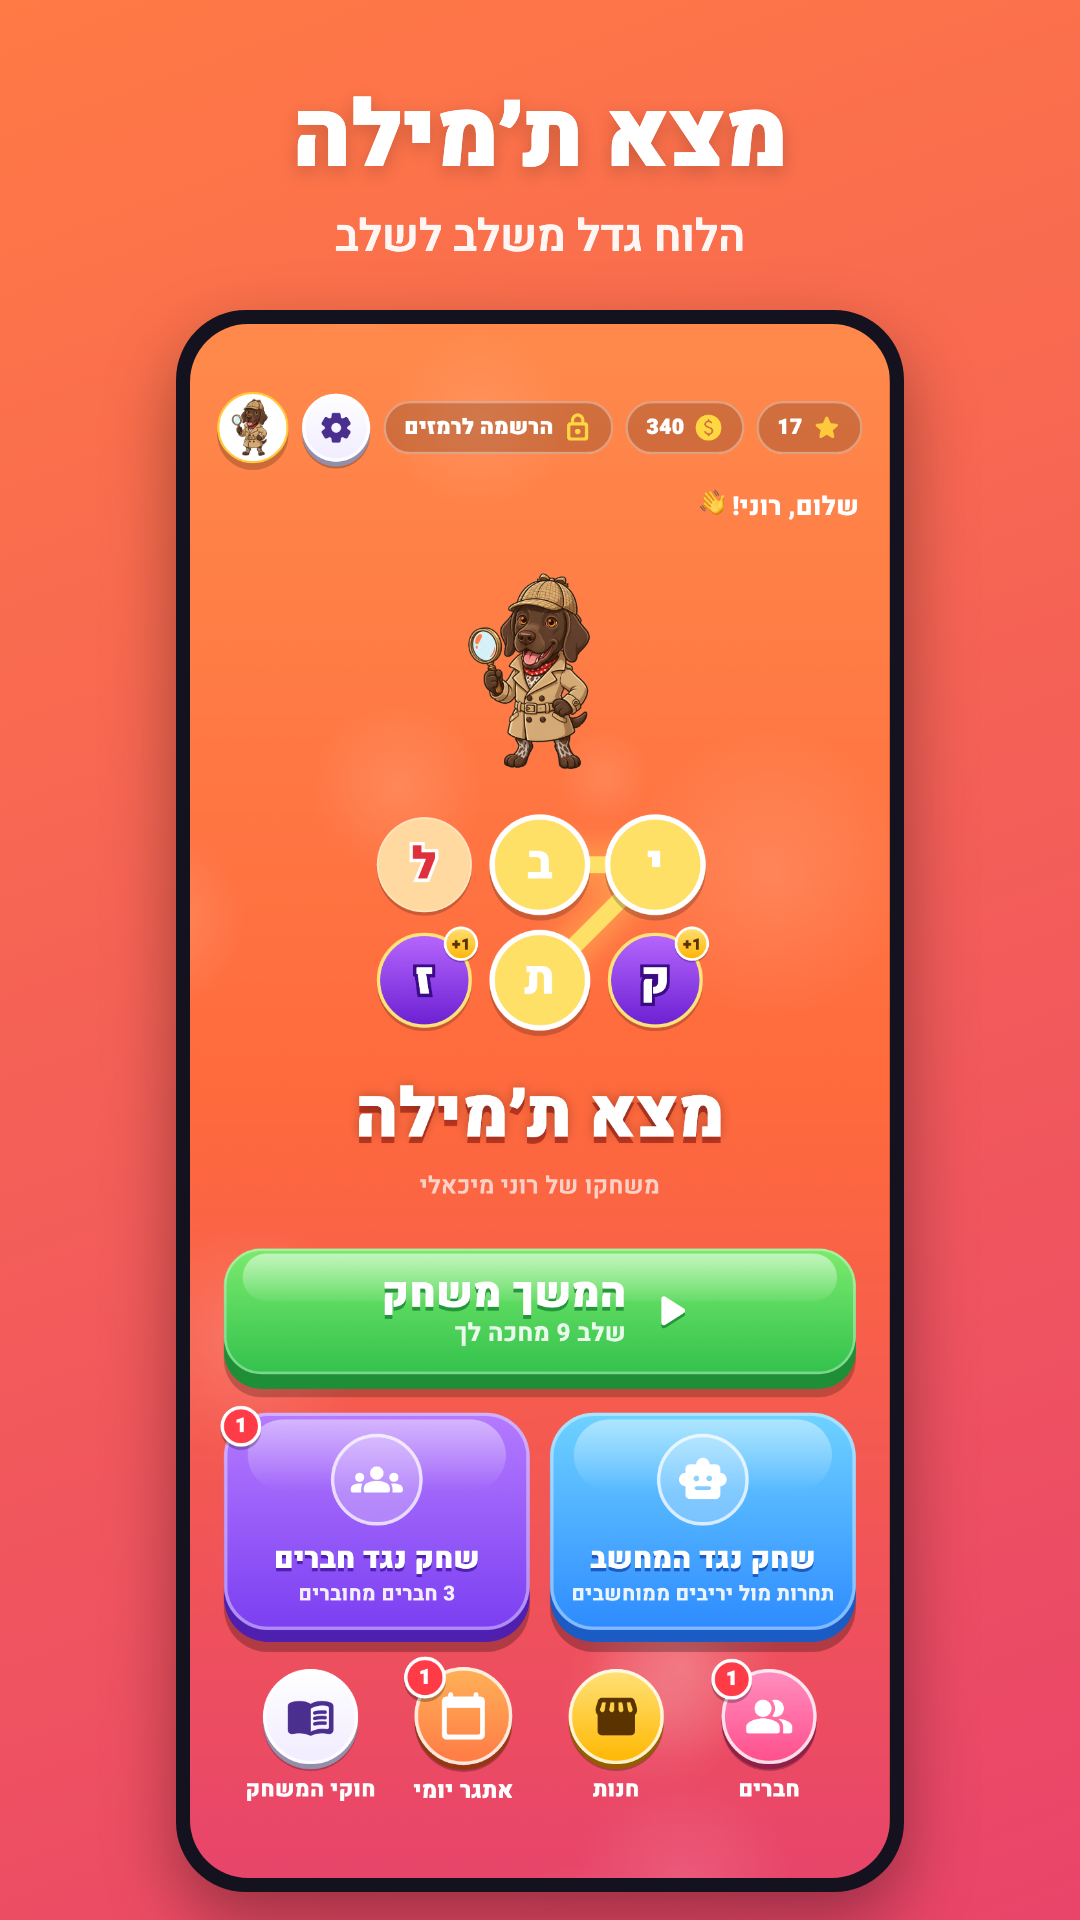
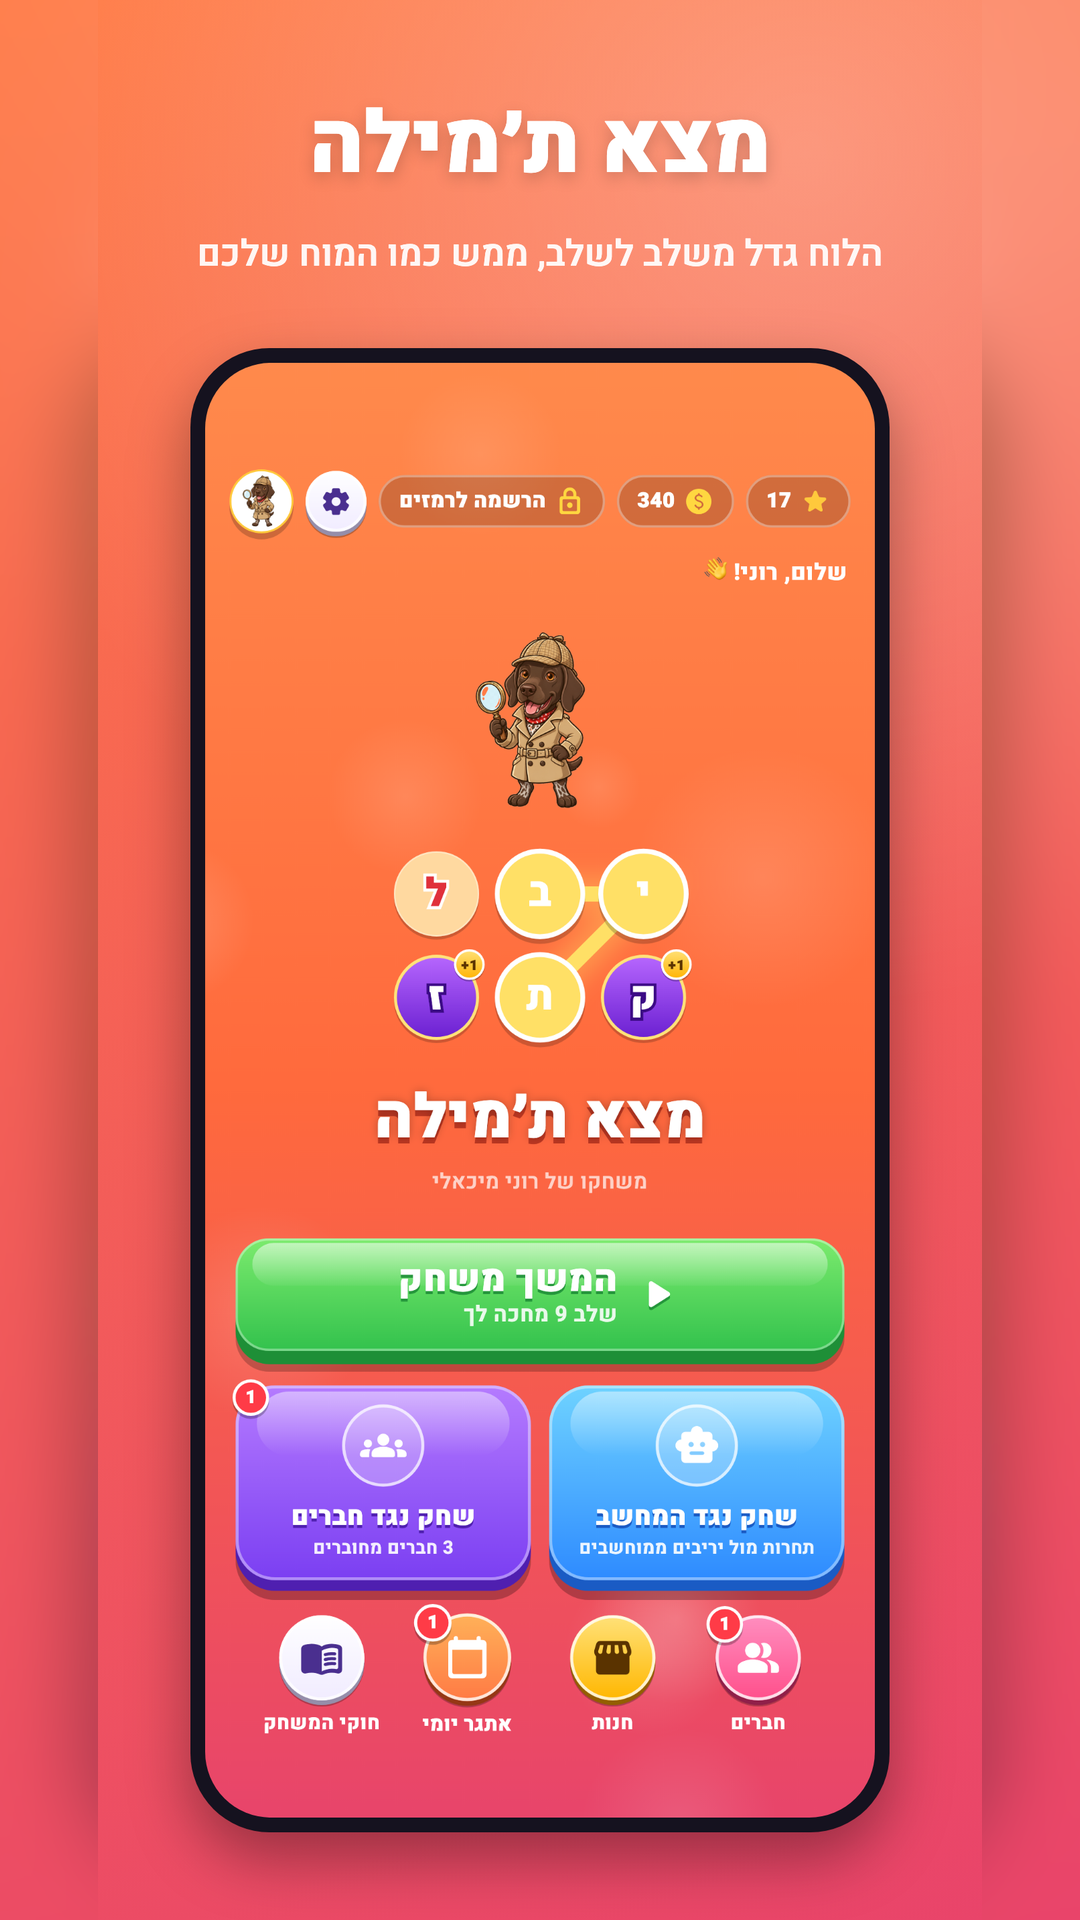
Android ל-Google Play: התחברות Google, בלי מזהה פרסום, צילומי מסך ותמונה ראשית מתוקנים
- התחברות Google באנדרואיד (טביעות SHA של מפתח ההעלאה ב-Firebase, google-services.json מעודכן)
- הודעה ברורה כשאין חשבון Google במכשיר
- טקסט ההרשמה מציג רק שיטות שקיימות בפלטפורמה (בלי Apple באנדרואיד)
- הסרת הרשאות AD_ID ו-Privacy Sandbox (אין פרסומות בגרסה הזו)
- צילומי מסך 1080x1920 בלי חפיפת כותרת, תמונה ראשית ו-manifest בלי Boggle

diff --git a/lib/features/auth/auth_screen.dart b/lib/features/auth/auth_screen.dart
@@ -8,6 +8,7 @@ import 'package:go_router/go_router.dart';
 
 import '../../core/analytics/analytics_service.dart';
 import 'account_flows.dart';
+import 'sign_in_methods.dart';
 import '../../core/config/app_config.dart';
 import '../../core/security/input_rules.dart';
 import '../../core/theme/app_colors.dart';
@@ -43,12 +44,11 @@ class _AuthScreenState extends ConsumerState<AuthScreen> {
   bool _showEmailForm = false;
   String? _busyAction;
 
-  // באתר Apple דורש הגדרת Services ID ב-Firebase - מוסתר עד אז (ראו AppConfig).
-  bool get _appleAvailable => kIsWeb ? AppConfig.appleLoginWeb : (Platform.isIOS || Platform.isMacOS);
+  bool get _appleAvailable => appleSignInAvailable();
 
-  // ב-iOS ה-Client ID מוגדר (GIDClientID + REVERSED_CLIENT_ID). באנדרואיד
-  // Google דורש עוד טביעות SHA ב-Firebase, ולכן נשאר מאחורי GOOGLE_LOGIN_NATIVE.
-  bool get _googleAvailable => kIsWeb || Platform.isIOS || AppConfig.googleLoginNative;
+  // ב-iOS ה-Client ID מוגדר (GIDClientID + REVERSED_CLIENT_ID). באנדרואיד טביעות
+  // ה-SHA של מפתח ההעלאה ושל Play App Signing רשומות ב-Firebase.
+  bool get _googleAvailable => kIsWeb || Platform.isIOS || Platform.isAndroid || AppConfig.googleLoginNative;
 
   @override
   void dispose() {

diff --git a/lib/data/repositories/firebase_auth_repository.dart b/lib/data/repositories/firebase_auth_repository.dart
@@ -236,8 +236,13 @@ class FirebaseAuthRepository implements AuthRepository {
       final userCred = await _linkOrSignIn(credential);
       return _mapUser(userCred.user!, isNewUser: userCred.additionalUserInfo?.isNewUser ?? false);
     } on GoogleSignInException catch (e) {
+      if (e.code == GoogleSignInExceptionCode.canceled) throw const AuthException('ההתחברות בוטלה.');
+      CrashReporting.recordNonFatal(e, reason: 'google_sign_in_${e.code.name}');
+      // באנדרואיד "unknownError" מגיע בעיקר כשאין חשבון Google במכשיר.
       throw AuthException(
-        e.code.name == 'canceled' ? 'ההתחברות בוטלה.' : 'ההתחברות עם Google נכשלה (${e.code.name}).',
+        e.code == GoogleSignInExceptionCode.unknownError
+            ? 'לא הצלחנו להתחבר עם Google. ודאו שיש חשבון Google במכשיר (הגדרות ← חשבונות), או התחברו עם מייל.'
+            : 'ההתחברות עם Google נכשלה (${e.code.name}).',
       );
     } catch (e) {
       throw _friendlyError(e);

diff --git a/lib/core/config/app_config.dart b/lib/core/config/app_config.dart
@@ -22,10 +22,9 @@ class AppConfig {
     defaultValue: true,
   );
 
-  /// התחברות עם Google באפליקציה (iOS/Android). דורשת הפעלת Google ב-Firebase
-  /// Authentication, טביעות SHA באנדרואיד, והורדה מחדש של google-services.json
-  /// ו-GoogleService-Info.plist. אחרי זה בונים עם GOOGLE_LOGIN_NATIVE=true.
-  /// באתר Google תמיד זמין.
+  /// מפעיל התחברות עם Google בפלטפורמות נוספות (למשל macOS). באתר, ב-iOS
+  /// ובאנדרואיד Google תמיד זמין. מפתח חתימה חדש באנדרואיד דורש להוסיף את טביעת
+  /// ה-SHA שלו ב-Firebase ולהוריד מחדש את google-services.json.
   static const bool googleLoginNative = bool.fromEnvironment('GOOGLE_LOGIN_NATIVE');
 
   /// התחברות עם Apple באתר. דורשת Services ID ומפתח פרטי של Apple בהגדרות

diff --git a/lib/features/store/store_screen.dart b/lib/features/store/store_screen.dart
@@ -17,6 +17,7 @@ import '../ads/native_ad_card.dart';
 import '../ads/store_ad_gift_card.dart';
 import '../../core/ui/candy_button.dart';
 import '../../core/platform/top_bar_tint.dart';
+import '../auth/sign_in_methods.dart';
 
 class _HintPack {
   final int hints;
@@ -517,8 +518,8 @@ class _GuestHintsCta extends StatelessWidget {
               style: TextStyle(color: Colors.white, fontSize: 20, fontWeight: FontWeight.w900),
             ),
             const SizedBox(height: 10),
-            const Text(
-              'הרשמו בחינם עם Google, Apple או מייל - ותקבלו רמזי '
+            Text(
+              'הרשמו בחינם עם ${signInMethodsText()} - ותקבלו רמזי '
               'מתנה מיד, בונוס יומי עם רמזים ומטבעות, ואפשרות לקנות עוד עם '
               'המטבעות שלכם.',
               textAlign: TextAlign.center,

diff --git a/lib/features/game/game_screen.dart b/lib/features/game/game_screen.dart
@@ -41,6 +41,7 @@ import 'widgets/words_goal_panel.dart';
 import '../../core/platform/top_bar_tint.dart';
 import '../../core/platform/browser_back_guard.dart';
 import '../../core/feedback/haptics.dart';
+import '../auth/sign_in_methods.dart';
 
 /// תוצאת שלב שהושלם - מועברת למסך התוצאה דרך go_router `extra`.
 class GameScreenResult extends Equatable {
@@ -1037,7 +1038,7 @@ class _GameHeader extends ConsumerWidget {
         title: 'רמזים שמורים לרשומים',
         ribbon: CandyPalette.gold,
         message:
-            'הרשמו בחינם עם Google, Apple או מייל וקבלו רמזי מתנה '
+            'הרשמו בחינם עם ${signInMethodsText()} וקבלו רמזי מתנה '
             'מיד ובונוס יומי - בלי לאבד את ההתקדמות הנוכחית שלכם.',
         actions: [
           CandyButton(

diff --git a/lib/features/auth/sign_in_methods.dart b/lib/features/auth/sign_in_methods.dart
@@ -1,0 +1,12 @@
+import 'dart:io' show Platform;
+
+import 'package:flutter/foundation.dart' show kIsWeb;
+
+import '../../core/config/app_config.dart';
+
+/// התחברות עם Apple: ב-iOS/macOS, ובאתר רק אחרי הגדרת Services ID ב-Firebase
+/// (ראו AppConfig). באנדרואיד לא מוצגת.
+bool appleSignInAvailable() => kIsWeb ? AppConfig.appleLoginWeb : (Platform.isIOS || Platform.isMacOS);
+
+/// לטקסטים כמו "הרשמו בחינם עם ..." - רק שיטות שבאמת מופיעות במסך ההתחברות.
+String signInMethodsText() => appleSignInAvailable() ? 'Google, Apple או מייל' : 'Google או מייל';

diff --git a/docs/google-play/GOOGLE_PLAY_GUIDE.md b/docs/google-play/GOOGLE_PLAY_GUIDE.md
@@ -7,7 +7,7 @@
   שני הקבצים **לא** נשמרים ב-git.
 - אייקון 512×512: `docs/google-play/icon-512.png`
 - תמונה ראשית (Feature graphic) 1024×500: `docs/google-play/feature-graphic-1024x500.png`
-- 7 צילומי מסך 1080×1920: `docs/google-play/screenshots/`
+- 7 צילומי מסך 1080×1920: `docs/google-play/screenshots/` (נוצרו מצילומי ה-App Store, בלי חפיפת טקסט)
 - כל הטקסטים למטה, מוכנים להעתקה.
 
 > ⚠ **גיבוי חובה:** להעתיק את `~/upload-keystore.jks` ואת `android/key.properties`
@@ -48,7 +48,32 @@
 משחק מילים ממכר בעברית: גררו אצבע על אותיות ומצאו כמה שיותר מילים!
 ```
 
-תיאור מלא (עד 4000): אותו טקסט כמו ב-App Store, ב-`docs/app-store/APP_STORE_LISTING.md` (Description).
+תיאור מלא (עד 4000) - גרסת אנדרואיד (Google במקום Apple):
+```
+מצא ת׳מילה הוא משחק מילים ממכר בעברית. מחברים אותיות שכנות על הלוח (לרוחב, לאורך או באלכסון), מוצאים כמה שיותר מילים לפני שהזמן נגמר, ומתקדמים משלב לשלב.
+
+איך משחקים?
+גוררים אצבע על אותיות סמוכות כדי ליצור מילה. כל מילה נכונה מוסיפה נקודות, ומילים ארוכות שוות יותר. אותיות סופיות? אין צורך לחפש אותן: המשחק ממיר לבד ך, ם, ן, ף, ץ בסוף המילה.
+
+מה מחכה לכם:
+• 100 שלבים בעולמות צבעוניים, והלוח גדל משלב לשלב מ-3×3 ועד 7×7
+• מילון עברי עשיר עם עשרות אלפי מילים: שמות עצם, פעלים בכל הבניינים, תארים, נטיות וסלנג
+• אותיות קשות (ז, ט, צ, ג, ס, ק, פ) בסגול, שוות נקודה נוספת
+• שלושה כוכבים לכל שלב, תיבות מזל, גלגל מזל ופרסים
+• תחרות נגד המחשב: מרוץ מול 1-3 יריבים עם שעון רץ
+• משחק נגד חברים בזמן אמת: חדר פרטי, הזמנה בוואטסאפ, ודירוג חברים
+• אתגר יומי: לוח אחד לכל השחקנים, ניסיון אחד ביום, ורצף ימים עם בונוס
+• רמזים, בונוס יומי ועיצובים לאריחים
+• הבלש מילולי מלווה אתכם עם הדרכה קצרה וחוקים פשוטים
+
+מתאים לכל מי שאוהב תשבצים, חידות ומשחקי מילים, ורוצה לאמן את המוח בעברית.
+
+אפשר לשחק כאורחים בלי להירשם, ולהתחבר בכל רגע עם Google או מייל כדי לשמור את ההתקדמות ולשחק עם חברים.
+
+המשחק חינמי. יש בו רכישות אופציונליות של מטבעות ורמזים.
+
+משחקו של רוני מיכאלי.
+```
 
 קטגוריה: **Word** (מילים). אימייל: `roniro5604@gmail.com`. אתר: `https://roni5604.github.io/WordboxGame/`
 מדיניות פרטיות: `https://roni5604.github.io/WordboxGame/privacy.html`
@@ -61,8 +86,9 @@
 |---|---|
 | **Privacy policy** | `https://roni5604.github.io/WordboxGame/privacy.html` |
 | **Ads** (פרסומות) | **No** (בגרסה הזו אין פרסומות) |
+| **Advertising ID** | **No** - הרשאת AD_ID הוסרה מה-Manifest (ראו AndroidManifest.xml) |
 | **App access** | All functionality is available without special access (אפשר לשחק כאורח) |
-| **Content rating** (שאלון IARC) | קטגוריה: Game. אלימות, מין, שפה, סמים, הימורים: **No**. משתמשים מתקשרים ביניהם: **Yes** (משחק מול חברים וכינויים; אין צ'אט חופשי). רכישות דיגיטליות: **Yes** |
+| **Content rating** (שאלון IARC) | קטגוריה: Game. אלימות, מין, שפה, סמים, הימורים, הימורים מדומים: **No**. משתמשים מתקשרים ביניהם: **Yes** (חברים, כינויים והזמנות; אין צ'אט חופשי). שיתוף מיקום: **No**. רכישות דיגיטליות: **Yes**. Loot boxes בכסף: **No** (תיבות וגלגל מזל רק ממשחק) |
 | **Target audience** | **13+** (13-15, 16-17, 18+) |
 | **News app** | No |
 | **Data safety** | ראו למטה |
@@ -77,7 +103,7 @@
 - Financial info: **Purchase history**: App functionality.
 - App activity: **App interactions, Other user-generated content** (ניקוד, חברים): App functionality, Analytics.
 - App info and performance: **Crash logs, Diagnostics**: Analytics.
-- Device or other IDs: **Device or other IDs**: Analytics (Firebase).
+- Device or other IDs: **Device or other IDs**: Analytics (מזהה ההתקנה של Firebase; לא מזהה פרסום).
 - Shared with third parties: **No**. Collection is optional: Name/Email/Photos: **Optional** (אפשר לשחק כאורח).
 
 ---
@@ -101,4 +127,8 @@
 ---
 
 ## עוד דבר טכני (Claude יטפל)
-- להוסיף ב-Firebase את טביעת ה-SHA של מפתח Play App Signing (רק אם מפעילים התחברות Google באנדרואיד).
+- התחברות Google באנדרואיד: טביעות ה-SHA של מפתח ההעלאה כבר ב-Firebase. אחרי ההעלאה הראשונה
+  צריך להוסיף גם את SHA-1 ו-SHA-256 של **App signing key** (Play Console ← Test and release ←
+  App integrity ← App signing). בלי זה Google לא יעבוד באפליקציה שהותקנה מ-Play.
+- נבדק באמולטור (גרסת release): פתיחה, התחברות כאורח, משחק, חנות, כללי קהילה לפני כינוי,
+  סינון כינוי פוגעני, הוספת חבר, מחיקת חשבון. targetSdk 36, Billing 9.1, ספריות 16KB.
